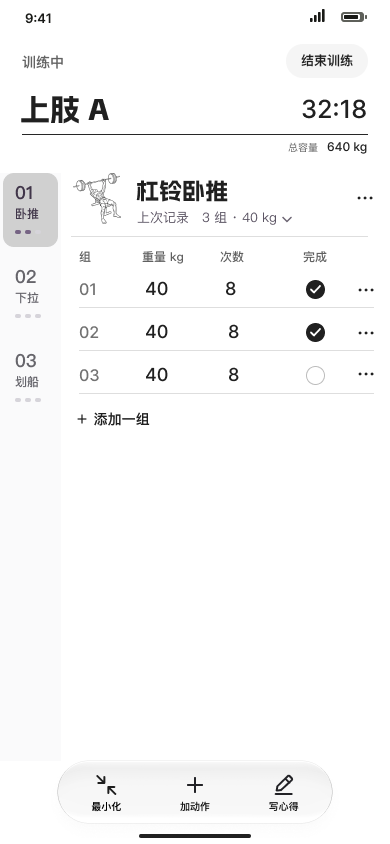
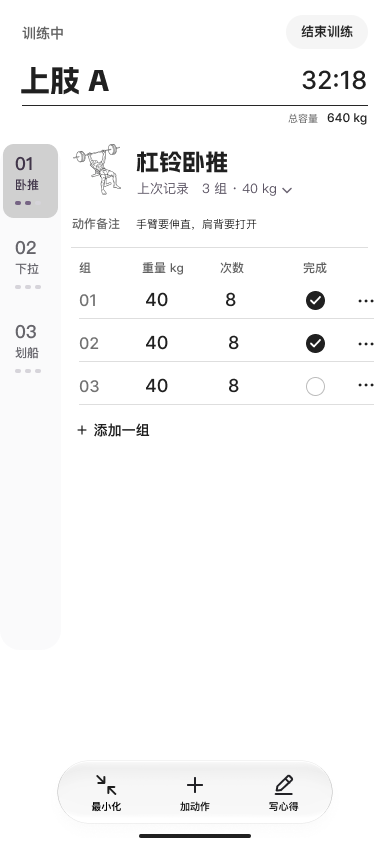
同步手机端页首、日历与保留原型的设计记录及预览

diff --git a/docs/设计日志/健身/新窗口交接.md b/docs/设计日志/健身/新窗口交接.md
@@ -6,7 +6,7 @@
 
 11 月 13 日核对，线上健身版本为 **1.11.7**，服务器 `current` 指向 `20261112-07`，公网健康检查通过。上轮定稿、代码和可编辑原型均在 `main` 的 `a4901b1`。上轮发布已结束，下一轮范围由用户指定。
 
-1. **接设计**：先用 Figwright 核对 Figma EX 的 `foilo-健身页面` →「手机端」→「5.训练中」（`34:15937`）。本次能发现该文件和 Page；云端同步完成情况仍待核对。换设备时可用[可编辑副本](原型/foilo-健身页面.fig)与现稿比对，保留用户后续手改。
+1. **接设计**：先用 Figwright 核对 Figma EX 的 `foilo-健身页面` →「手机端」→「5.训练中」（`34:15937`）。本轮已在实时画布核对用户删减后保留的 24 张整屏稿，移除模拟系统状态栏并按首页约 27 px 的可见顶距调整。日记周行距 58 px，年份紧邻标题；卧推训练状态补齐动作备注。云端同步尚未验证。仓库的 .fig 副本早于这轮删减；换设备时仅用[可编辑副本](原型/foilo-健身页面.fig)与现稿比对，保留用户后续手改。
 2. **接代码**：开练预览在 [gym-app.tsx](../../../components/gym/gym-app.tsx)，训练布局和上次记录入口在 [workout-ledger.tsx](../../../components/gym/workout-ledger.tsx)，逐组录入在 [training-set.tsx](../../../components/gym/training-set.tsx)。手机端用于记录训练，桌面端默认进入统计。
 3. **接发布**：先核对服务器当前业务发布号，从「端与发布」所列服务器交接目录下载匹配的完整源码包并校验 SHA-256，在独立目录合入改动。GitHub 主仓用于同步本轮文件和记录。业务部署使用 `scripts/deploy-remote.sh`。
 
@@ -14,7 +14,7 @@
 
 手机训练以用户定稿[5.训练中](https://www.figma.com/design/qdopzPVPXyrlbQuaPA6ZYa/?node-id=34-15937)为准。上方显示计划名称、时长和容量，左栏选择动作，右侧原位记录各组并展开上次记录。底部三个训练工具水平居中。[收起](预览/手机网页/34-15937.png) · [展开](预览/手机网页/37-16208.png)
 
-本机 Figma EX 主文件已同步 68 张训练流程画板。动作切换、历史收展和数字键盘按各状态定位。Figma EX 提示有离线修改，跨设备接手可下载[可编辑源文件](原型/foilo-健身页面.fig)。已检查导出包完整性。[力量补充](预览/手机网页/15-4120.png) · [三段递减](预览/手机网页/24-2008.png) · [临时动作](预览/手机网页/15-5355.png)
+上轮发布时曾同步 68 张训练流程画板；本轮删减后的画布以「新窗口从这里开始」为准。动作切换、历史收展和数字键盘按各状态定位。Figma EX 提示有离线修改，跨设备接手可下载[可编辑源文件](原型/foilo-健身页面.fig)。已检查导出包完整性。[力量补充](预览/手机网页/15-4120.png) · [三段递减](预览/手机网页/24-2008.png) · [临时动作](预览/手机网页/15-5355.png)
 
 首页点计划后先查看开练预览。动作数和组数固定在计划名下方，动作卡随实际动作数排列。[单动作预览](预览/手机网页/31-15151.png) · [双动作预览](预览/手机网页/31-15241.png)。线上版本 1.11.7 已发布，详见下方记录。
 

diff --git a/docs/设计日志/健身/设计日志.md b/docs/设计日志/健身/设计日志.md
@@ -214,3 +214,7 @@ Linux x64 / Node 22 测试、类型检查、构建及登录回跳冒烟通过。
 ## 2026-11-13-07｜有氧独立分类
 
 按用户要求，本机肌群分类页将既有 12 项有氧动作单列，移除其肌群标签和编辑入口。验证旧标签缓存、分类过滤与全部 334 项计数。
+
+## 2026-11-13-08｜手机端精简画布与日历
+
+通过 Figwright 核对现存 24 张 390 × 844 整屏画板，并逐张导出检查。以首页标志距顶约 27 px 为准，清除系统栏实例和散落的时间、信号、电池图层。日记主稿和 6 日、10 日状态沿用手调年份与月栏，周行距从 48 增至 58 px。同步首页恢复与预览背景、选动作确认键、卧推备注、侧栏和相关触区。训练工具保持水平居中。现存画板对应的既有 PNG 已更新，仓库可编辑副本仍为上轮存档。本轮修改设计，尚未验证跨设备同步或逐条走完原型跳转。

diff --git a/docs/设计日志/健身/设计与写作规则.md b/docs/设计日志/健身/设计与写作规则.md
@@ -63,3 +63,7 @@
 | 胸部 | 上胸、胸中部、下胸 |
 
 竖脊肌是背部与腰腹／核心共用的标签。有氧为独立分类，仅在「全部」和「有氧」列表展示。有氧卡片省略肌群三档及其编辑入口。
+
+## 手机端原型页首与日历
+
+整屏稿省去模拟系统时间、信号与电池，以 01 首页顶部 GYM 标志的可见边距（约 27 px）校准页首。日历年份紧邻「训练日记」标题；六周按 58 px 行距排列。日期数字、选中底、训练标签及相应点击区随所在周对齐。
